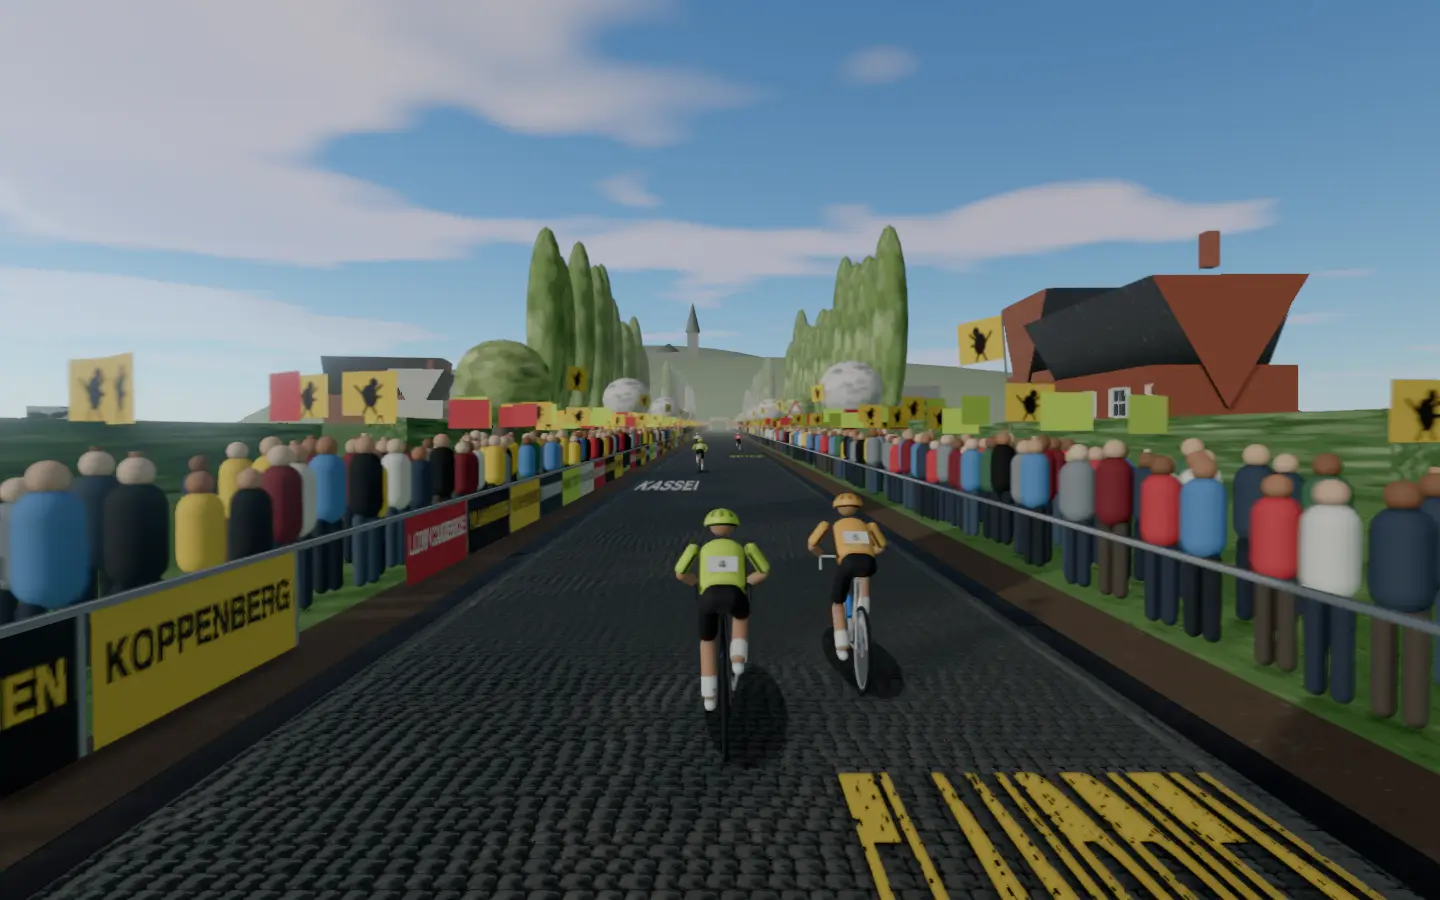
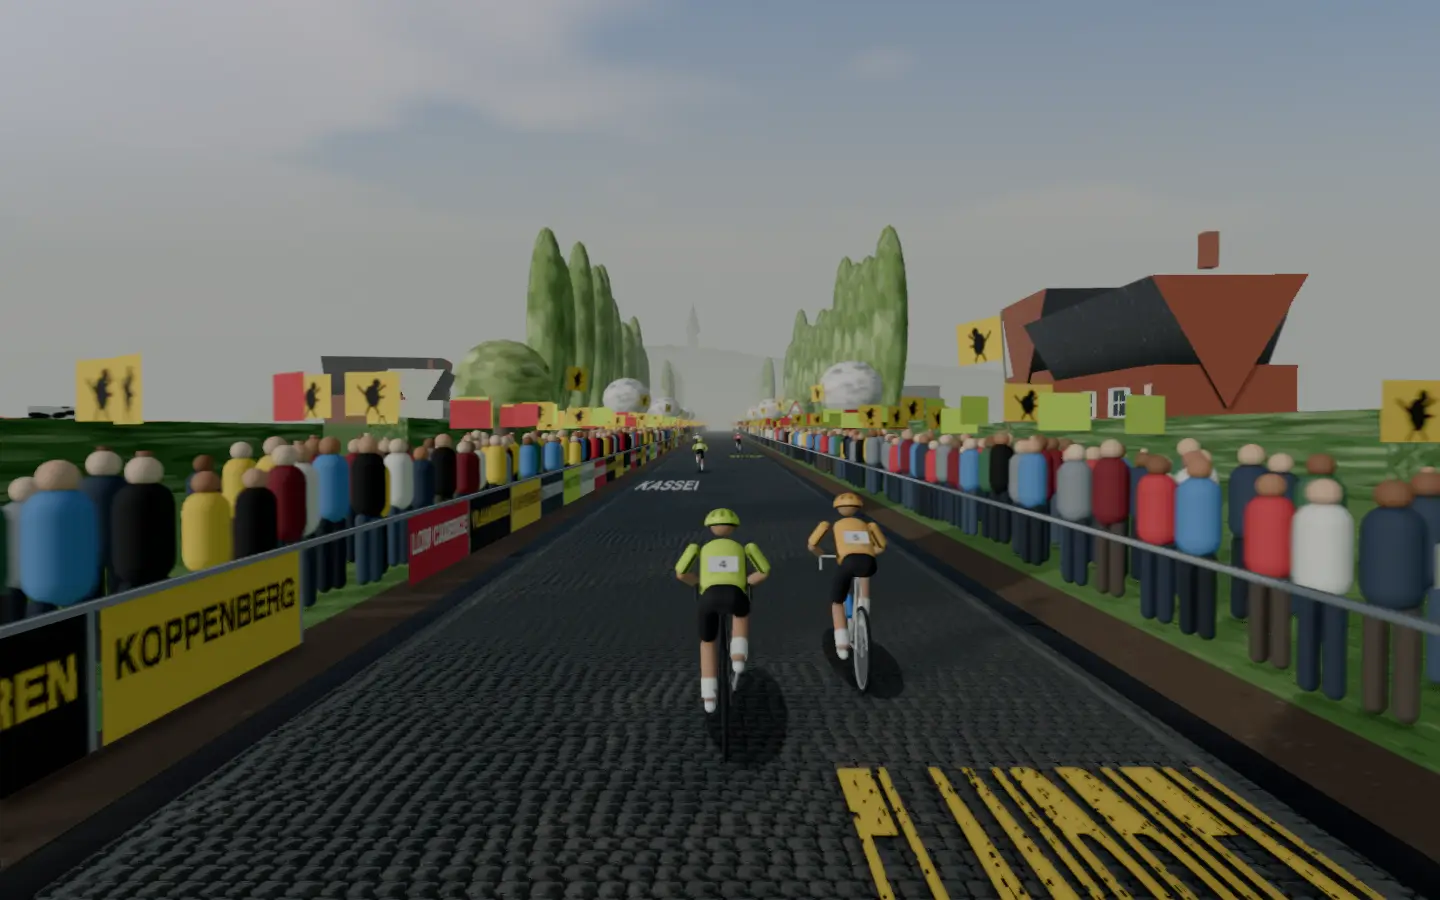
Lay the spring mist over the Koppenberg's farm lanes
The physical sky takes no fog, so the street draws its own mist: soft
curtains across the horizon, one behind the hill veiling the lower sky so
Melden's church rises out of it and thinner ones in front of the hill, and
banks of mist lying low over the fields, drifting on the street's clock.
Render quality 72% -> 75% (light and atmosphere 5 -> 8, description
fidelity 7 -> 8, hero landmark 8 -> 7 as the church fades into the mist).

diff --git a/frontend/projects/wattzup/src/app/core/world-koppenberg.ts b/frontend/projects/wattzup/src/app/core/world-koppenberg.ts
@@ -18,6 +18,7 @@ import {
   Group,
   type Material,
   Mesh,
+  MeshBasicMaterial,
   MeshStandardMaterial,
   PlaneGeometry,
   RepeatWrapping,
@@ -57,6 +58,17 @@ const HEDGE = 12;
 /** The hill the cobbles climb, its church on the crest ahead, hazed by hand. */
 const HILL_AHEAD = 560;
 const MIST = 0xc9cec4;
+/**
+ * The spring mist, the street's own since the physical sky takes no fog: curtains across the
+ * horizon, one behind the hill so the church rises out of it and a thinner one veiling the hill,
+ * and banks lying low over the fields, drifting on the street's clock.
+ */
+const CURTAINS: readonly { ahead: number; height: number; opacity: number }[] = [
+  { ahead: 1100, height: 900, opacity: 1 },
+  { ahead: 470, height: 220, opacity: 0.7 },
+  { ahead: 240, height: 80, opacity: 0.45 },
+];
+const MIST_BANKS = 10;
 
 const SKINS = ['#f3cfb3', '#e8b896', '#d9a17c', '#b67a55', '#8a5a3c'];
 const SUPPORTERS: Wardrobe = {
@@ -115,6 +127,8 @@ export class KoppenbergStreet implements SceneStreet {
   private readonly props: { mesh: Group; offset: number; every: number; x: number }[] = [];
   private readonly grazing: { mesh: Group; spot: Spot; heading: number }[] = [];
   private readonly hill = new Group();
+  private readonly curtains: Mesh[] = [];
+  private readonly banks: { mesh: Mesh; offset: number; x: number }[] = [];
   private time = 0;
   private readonly unit = new BoxGeometry(1, 1, 1);
   private readonly lion = new MeshStandardMaterial({ side: DoubleSide, roughness: 0.8 });
@@ -161,6 +175,7 @@ export class KoppenbergStreet implements SceneStreet {
     this.addCows();
     this.addTractor();
     this.addHill();
+    this.addMist();
   }
 
   /** The street's clock, in seconds; held at 0 for reduced motion. */
@@ -190,6 +205,14 @@ export class KoppenbergStreet implements SceneStreet {
       cow.mesh.rotation.y = cow.heading + Math.sin(this.time * 0.03 + i) * 0.3;
     });
     this.hill.position.set(0, heightAt(HILL_AHEAD), -HILL_AHEAD);
+    this.curtains.forEach((curtain, i) => {
+      const ahead = CURTAINS[i]!.ahead;
+      curtain.position.set(0, heightAt(ahead) - 20, -ahead);
+    });
+    for (const bank of this.banks) {
+      const metres = along(bank.offset + this.time * 0.4, LOOP);
+      bank.mesh.position.set(bank.x, ground(metres) + bankAt(bank.x) + 1.6, -metres);
+    }
   }
 
   /** The lane's muddy edges, the grass banks, the fields beyond and the barriers. */
@@ -589,6 +612,50 @@ export class KoppenbergStreet implements SceneStreet {
     this.group.add(h);
   }
 
+  /** The mist's curtains across the horizon and its banks over the fields. */
+  private addMist(): void {
+    const veil = this.track(mistTexture(true));
+    for (const c of CURTAINS) {
+      const plane = new PlaneGeometry(9000, c.height);
+      plane.translate(0, c.height / 2, 0);
+      this.disposables.push(plane);
+      const material = new MeshBasicMaterial({
+        color: MIST,
+        map: veil,
+        transparent: true,
+        opacity: c.opacity,
+        depthWrite: false,
+        fog: false,
+      });
+      this.disposables.push(material);
+      const curtain = new Mesh(plane, material);
+      curtain.renderOrder = -1;
+      this.curtains.push(curtain);
+      this.group.add(curtain);
+    }
+    const wisp = this.track(mistTexture(false));
+    const sheet = new PlaneGeometry(90, 70);
+    sheet.rotateX(-Math.PI / 2);
+    this.disposables.push(sheet);
+    const material = new MeshBasicMaterial({
+      color: MIST,
+      map: wisp,
+      transparent: true,
+      opacity: 0.45,
+      depthWrite: false,
+    });
+    this.disposables.push(material);
+    for (let k = 0; k < MIST_BANKS; k++) {
+      const mesh = new Mesh(sheet, material);
+      this.group.add(mesh);
+      this.banks.push({
+        mesh,
+        offset: (k * LOOP) / MIST_BANKS,
+        x: (k % 2 ? 1 : -1) * (62 + (k % 3) * 25),
+      });
+    }
+  }
+
   private material(options: ConstructorParameters<typeof MeshStandardMaterial>[0]) {
     const material = new MeshStandardMaterial({ roughness: 0.9, ...options });
     this.disposables.push(material);
@@ -612,6 +679,36 @@ function bankAt(x: number): number {
   if (d <= 14) return 0.25 + ((d - 8) / 6) * 0.9;
   if (d <= 60) return 1.15 + ((d - 14) / 46) * 1.2;
   return 2.35;
+}
+
+/**
+ * Mist's alpha: for a curtain, thick at the foot and thinning upward with soft lumps along its
+ * top; for a bank, soft blotches fading at the edges.
+ */
+function mistTexture(curtain: boolean): CanvasTexture {
+  return canvasTexture(256, 256, (g) => {
+    if (curtain) {
+      const fade = g.createLinearGradient(0, 256, 0, 0);
+      fade.addColorStop(0, 'rgba(255,255,255,1)');
+      fade.addColorStop(0.3, 'rgba(255,255,255,0.95)');
+      fade.addColorStop(0.6, 'rgba(255,255,255,0.55)');
+      fade.addColorStop(1, 'rgba(255,255,255,0)');
+      g.fillStyle = fade;
+      g.fillRect(0, 0, 256, 256);
+      return;
+    }
+    const random = seeded(439);
+    for (let i = 0; i < 26; i++) {
+      const x = 40 + random() * 176;
+      const y = 40 + random() * 176;
+      const r = 24 + random() * 40;
+      const blot = g.createRadialGradient(x, y, 0, x, y, r);
+      blot.addColorStop(0, 'rgba(255,255,255,0.5)');
+      blot.addColorStop(1, 'rgba(255,255,255,0)');
+      g.fillStyle = blot;
+      g.fillRect(0, 0, 256, 256);
+    }
+  });
 }
 
 /** Flanders' flag: a black lion rampant on yellow, its claws and tongue red. */

diff --git a/docs/class-worlds.md b/docs/class-worlds.md
@@ -19,7 +19,7 @@ Every class in `frontend/public/classes.json`, with its World Ride scene. Render
 | 13 | 10 On 20 Off Max Sprints | Venice Beach Boardwalk | 80% | Skaters glide past street performers, mural-painted shopfronts and towering palms along Venice Beach's Ocean Front Walk, the Santa Monica Pier's Ferris wheel turning over the bay ahead. The two one-minute efforts warm up past Muscle Beach, and the eighteen ten-second sprints each burst between the palms before twenty seconds cruising in the ocean breeze. |
 | 14 | 15 Minute Cardio HIIT | Central Park Loop | 65% | Early laps of Central Park past the reservoir and Bethesda Fountain, joggers and carriages sharing the drive. |
 | 15 | 15 Minute Strength Workout | Lisbon Tram Hills (concept) |  | Steep cobbled Alfama lanes beside yellow trams; grind each climb toward the castle above the Tagus. |
-| 16 | Low Cadence Strength Builder | Koppenberg Cobbles | 72% | Spring mist hangs over the Flemish farm lanes below the Koppenberg, where fans waving Flanders' lion pack the grass banks and Melden's church tower watches from the wooded crest. The two one-minute openers roll over the lanes' first rises, and the three three-minute heavy-gear efforts grind up the slick Koppenberg cobbles past the crowds before each minute's recovery rolls back down among the poplars. |
+| 16 | Low Cadence Strength Builder | Koppenberg Cobbles | 75% | Spring mist hangs over the Flemish farm lanes below the Koppenberg, where fans waving Flanders' lion pack the grass banks and Melden's church tower watches from the wooded crest. The two one-minute openers roll over the lanes' first rises, and the three three-minute heavy-gear efforts grind up the slick Koppenberg cobbles past the crowds before each minute's recovery rolls back down among the poplars. |
 | 17 | Level Up Your Cadence | Ghent Six-Day | 70% | Six-day racing under the Kuipke's wooden banking; cadence lifts with every lap the crowd counts. |
 | 18 | Nasty Pasty Sprint Session | Cornish Harbour (concept) |  | Fishing boats, pasty shops and slate cottages in a Cornwall harbour; sprint the quay between steep lanes. |
 | 19 | 15 Minutes HIIT Sprinting Efforts | Golden Gate Park (concept) |  | Eucalyptus and fog through San Francisco's park; sprint past the bison paddock toward Ocean Beach. |

diff --git a/docs/detailed-designs/world-ride/draw-class-scene/README.md b/docs/detailed-designs/world-ride/draw-class-scene/README.md
@@ -185,7 +185,8 @@ None.
   - grass banks rising from the barriers, packed with the shared crowd in Flanders' yellow and black, a third waving the lion flag, more lion flags on tall poles stuck in the banks, and a red-edged 22% warning sign and a red inflatable KOPPENBERG arch once a loop;
   - hawthorn hedges along the fields, rows of Lombardy poplars, pollard willows and blossom by the lane, and fields in strips of young wheat, ploughed earth, pasture and rapeseed;
   - farms in the fields: long whitewashed or brick houses with shuttered windows, steep red-tile or slate roofs and chimneys, brick barns with tarred roofs across their yards, black-and-white cows grazing and a tractor by a gate;
-  - ahead, the wooded hill the cobbles climb with Melden's church tower and slate spire on its crest, hazed by hand.
+  - ahead, the wooded hill the cobbles climb with Melden's church tower and slate spire on its crest, hazed by hand;
+  - the spring mist, drawn by the street since the physical sky takes no fog: soft curtains across the horizon (one behind the hill, veiling the lower sky so the church rises out of it, and thinner ones in front of the hill) and banks of mist lying low over the fields, drifting on the street's clock.
 
   `lay`, `place` and `setTime` recycle it along a 480 m loop.
 
